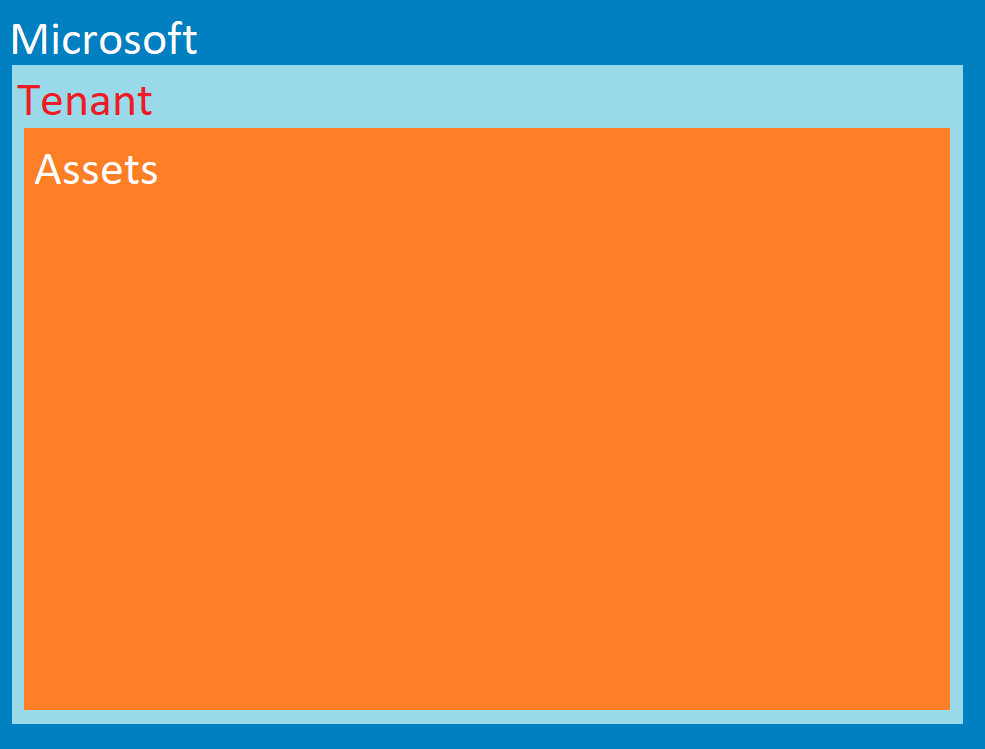
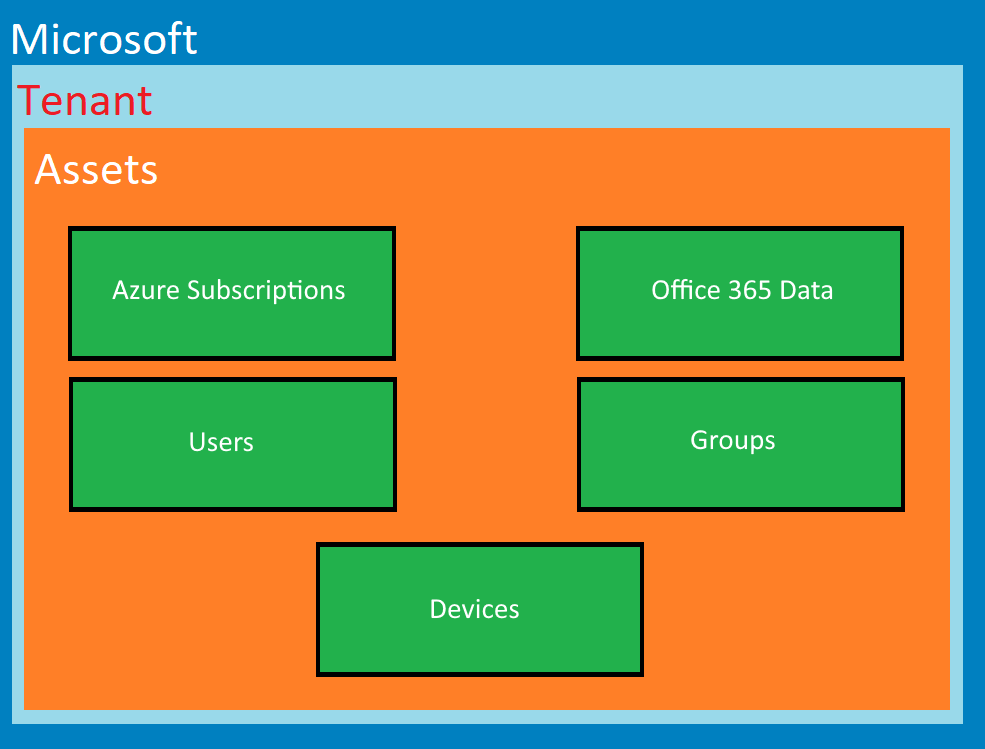
M365 Lab

diff --git a/_posts/2021-04-17-M365-Lab-Setup-Office-and-Intune.md b/_posts/2021-04-17-M365-Lab-Setup-Office-and-Intune.md
@@ -25,19 +25,38 @@ Hi I wrote this article to help other start with Office 365 and Intune, without 
 Before we begin with this you will need to consider few things:  
 
 + Is this will be LAB environment and won't be converted to production.
-  + Use domain .onmicrosoft.com
-  + test all settings
-+ Is this PoC or Pilot environment that will be converted to production.
+  + LAB Only: Tenat name suppose not be connected to organization name, once used tenant name connot be reused or changed.. **Example:** demo{Random Numbers} 
+  + LAB Only: Use the highest licences like E5 to check all settings and dependencies for compare.
+  + LAB Only: Don't use production custom domains, domain can be assigne only to one **Tenant**.
++ Is this PoC Pilot environment that will be converted to production.
+  + PoC: Tenat name suppose not be connected to organization name, once used tenant name connot be reused or changed. **Example:** poc{Random Numbers} 
+  + PoC: Use the highest licences like E5 to check all settings and dependenciesfor compare.
+  + PoC: Collect user case that you like to present.
+  + PoC: Don't use production custom domains, domain can be assigne only to one **Tenant**.
++ Is this Pilot environment that will be converted to production.
+  + Pilot: Tenant name need to be connected to Organization for adoption propose.
+  + Pilot: Tenant name need to be approve by bussines becasue will be used as first part of URL in **Sharepoint** and **OneDrive**
+  + Pilot: Use licences that match Organization business cases to avoid misconfiguration.
+  + Pilot: Don't use production custom domains, to avoid data flow distributions.  
 
+>   
+> **Notice:** Tenant name cannot be change after creation.
+>  
+--------------------------
 ## First Azure Active Directory Tenant
 ### What is Tenant ?
 
- **Tenant** Is isolated dedicated space for our organization for our assets. It is within the overall O365 Data Center which would be the apartment complex. The Tenant is the container for items of your Organization such as users, domains, subscriptions, devices, permissios.  
+ **Tenant** Is isolated dedicated space for our organization and our assets. The Tenant is the container for items of your Organization such as users, domains, subscriptions, devices, permissios, Office 365 Data. 
 
+Exmaple of data isolation
+
+![](/assets/images/M365-Lab/M365-Lab-Tenant.png)
 
 
 ### Create Azure Active Directory Tenant
 ## Custom domian for LAB propuse without paying
+
+## Custom domian for Pilot propuse without paying
 
 ## Bring you own custom domain
 ## Activate trial licences
